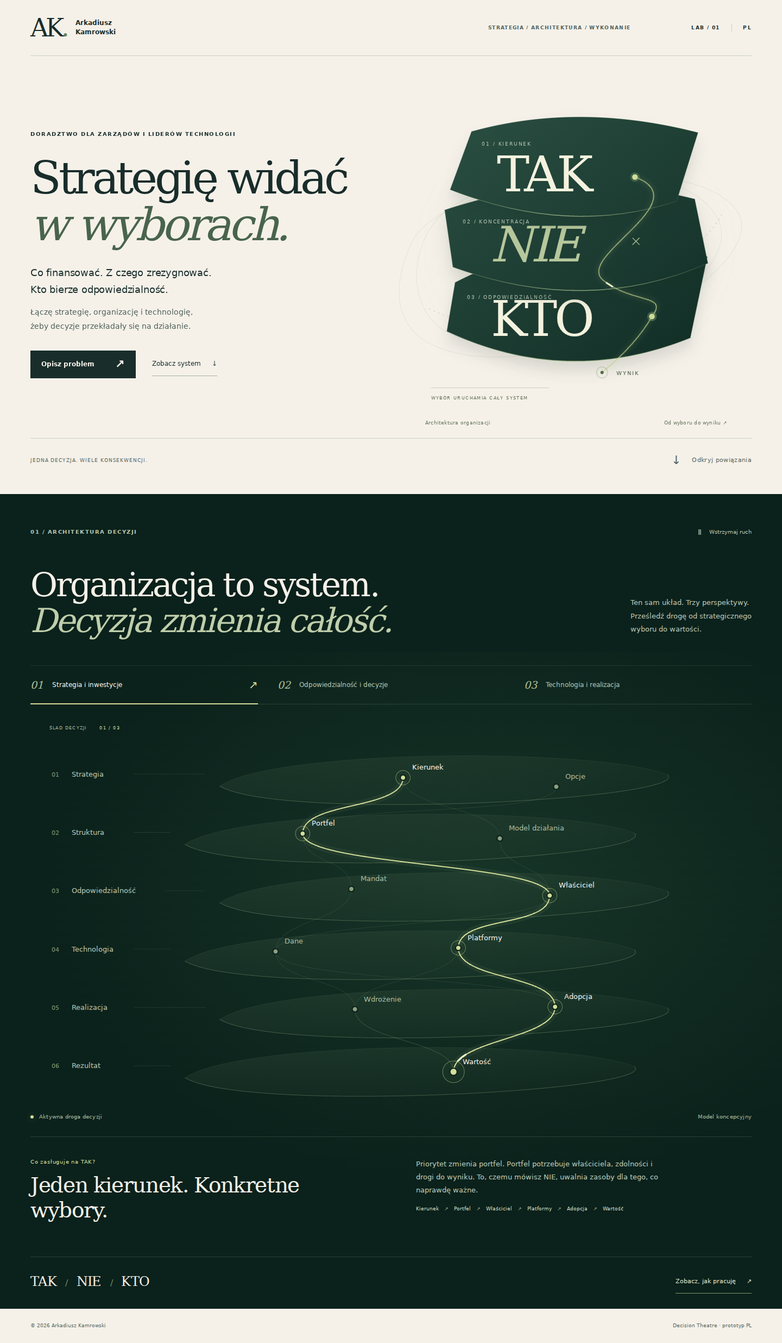
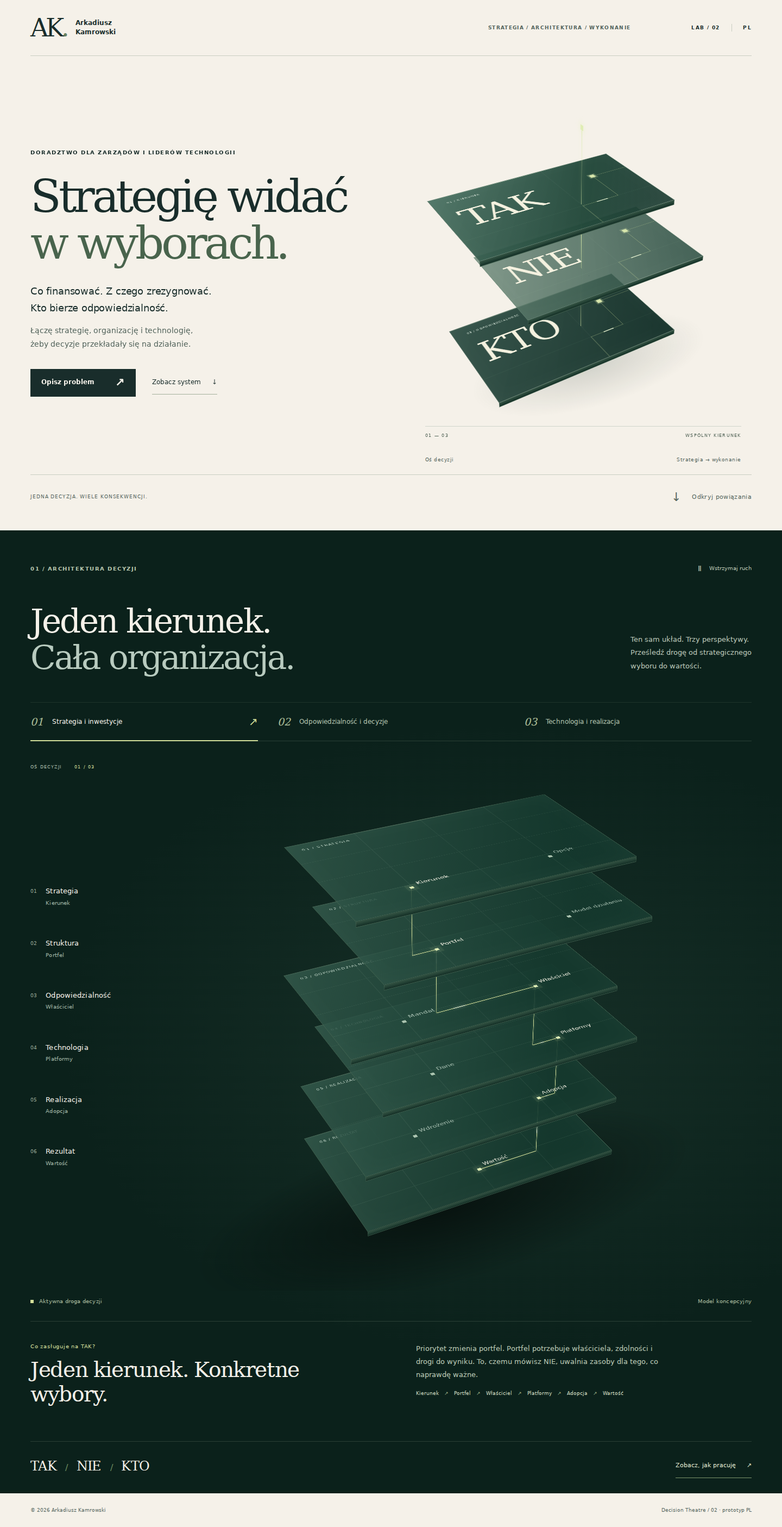
feat(lab): reframe Decision Theatre with rectilinear 3D solids

diff --git a/src/styles/decision-theatre.css b/src/styles/decision-theatre.css
@@ -3,11 +3,10 @@
 *{box-sizing:border-box}html{scroll-behavior:smooth;scroll-padding-top:1rem}body{margin:0;background:var(--dt-paper);color:var(--dt-ink);font:16px/1.6 var(--dt-sans);-webkit-font-smoothing:antialiased}h1,h2,h3,p,figure{margin:0}a{color:inherit;text-decoration:none}button{font:inherit}button,a{-webkit-tap-highlight-color:transparent}button{cursor:pointer}button:disabled{cursor:default}button[hidden],[hidden]{display:none!important}::selection{background:var(--dt-accent);color:var(--dt-night)}:focus-visible{outline:2px solid #527343;outline-offset:6px}main:focus{outline:none}.dt-system :focus-visible{outline-color:var(--dt-accent)}.dt-shell{width:min(1360px,calc(100% - 112px));margin-inline:auto}.dt-skip{position:fixed;z-index:10;left:1rem;top:1rem;background:var(--dt-ink);color:white;padding:1rem;transform:translateY(-200%)}.dt-skip:focus{transform:none}
 .dt-header{display:flex;align-items:center;justify-content:space-between;gap:2rem;min-height:103px;border-bottom:1px solid var(--dt-line)}.dt-brand{display:flex;align-items:center;gap:16px;font-size:12px;font-weight:600;line-height:1.4}.dt-monogram{font:46px/1 var(--dt-serif);letter-spacing:-5px}.dt-monogram span{color:#678060}.dt-edition,.dt-lab{font-size:9px;font-weight:550;letter-spacing:.15em}.dt-edition{margin-left:auto;margin-right:5rem;color:var(--dt-muted)}.dt-lab{display:flex;gap:22px}.dt-lab span{border-left:1px solid var(--dt-line);padding-left:20px}
 .dt-hero{display:grid;grid-template-columns:1.03fr 1fr;align-items:center;column-gap:1rem;padding-top:40px;position:relative}.dt-hero-copy{z-index:1;padding:45px 0 40px}.dt-kicker{font-size:10px;letter-spacing:.15em;font-weight:600;line-height:1.7}.dt-hero h1{font:400 clamp(54px,5.75vw,87px)/1.04 var(--dt-serif);letter-spacing:-.065em;margin-top:30px}.dt-hero h1 em{font-weight:400;color:#49644d}.dt-lead{font-size:18px;line-height:1.7;letter-spacing:-.01em;margin-top:30px}.dt-intro{font-size:14px;line-height:1.8;color:var(--dt-muted);margin-top:14px;max-width:40ch}.dt-actions{display:flex;align-items:center;gap:30px;margin-top:32px}.dt-cta{display:inline-flex;align-items:center;gap:38px;background:var(--dt-ink);color:var(--dt-paper);font-size:12px;font-weight:550;padding:15px 20px;min-height:50px;transition:background .25s,transform .25s}.dt-cta:hover{background:#345d4b;transform:translateY(-2px)}.dt-cta span{font-size:21px;line-height:1}.dt-text-link{display:inline-flex;align-items:center;justify-content:space-between;gap:20px;font-size:12px;padding:10px 0;border-bottom:1px solid #a5b09d;min-height:44px}.dt-text-link span{transition:transform .3s}.dt-text-link:hover span{transform:translate(2px,-2px)}.dt-hero-bottom{grid-column:1/-1;display:flex;justify-content:space-between;align-items:center;border-top:1px solid var(--dt-line);margin-top:20px;margin-bottom:40px;padding-top:18px;font-size:9px;letter-spacing:.1em;color:var(--dt-muted)}.dt-hero-bottom a{display:flex;gap:20px;align-items:center;min-height:44px;letter-spacing:.03em;font-size:11px}.dt-hero-bottom a>span{font-size:22px}
-.dt-field{min-width:0}.dt-hero-field{position:relative;isolation:isolate;align-self:center}.dt-hero-field:before{content:'';position:absolute;z-index:-1;inset:12% 6% 15%;background:radial-gradient(ellipse,#9ea88935,transparent 70%);filter:blur(20px)}.dt-hero-field svg{display:block;width:100%;height:auto;overflow:visible}.dt-orbit{stroke:#9cae923f;stroke-width:.8}.dt-orbit-short{stroke:#748d6577;stroke-dasharray:2 7}.dt-plane{fill:url(#dt-hero-surface);stroke:#75936b;stroke-opacity:.25;stroke-width:1}.dt-plane-edge{stroke:url(#dt-hero-edge);stroke-width:1.5}.dt-leaf{filter:drop-shadow(0 18px 12px #1629201f);transform-origin:50% 50%;transition:transform 1.2s var(--dt-ease)}.dt-hero-field:hover .dt-leaf-front{transform:translateY(-5px)}.dt-hero-field:hover .dt-leaf-back{transform:translateY(5px)}.dt-hero-number{fill:#b4c4af;font:9px var(--dt-sans);letter-spacing:1.8px}.dt-hero-word{fill:#f4f2df;font:89px var(--dt-serif);letter-spacing:-5px}.dt-word-no{fill:#b6c79c;font-style:italic}.dt-terminal{fill:var(--dt-accent);stroke:#3f6049;stroke-width:7;paint-order:stroke}.dt-stop{stroke:#adc195;stroke-width:1.3;transform:rotate(45deg);transform-box:fill-box;transform-origin:center}.dt-hero-trail-glow{stroke:#d3df9a;stroke-width:12;opacity:.06;filter:blur(3px)}.dt-hero-trail{stroke:#c1d18c;stroke-width:1.5;stroke-opacity:.9;stroke-dasharray:1;animation:dt-draw 2.4s var(--dt-ease) both}.dt-hero-signal{stroke:#f5ffd1;stroke-width:3;stroke-linecap:round;stroke-dasharray:.025 .975;animation:dt-flow 7s linear infinite}.dt-outcome-ring{stroke:#6b8658;stroke-width:.8}.dt-outcome-dot{fill:#4f6c43}.dt-outcome-label{fill:#465a41;font:10px var(--dt-sans);letter-spacing:2px}.dt-hairline{stroke:#9daa9177}.dt-hero-note{fill:#617054;font:8px var(--dt-sans);letter-spacing:1.4px}.dt-field-caption{display:flex;justify-content:space-between;gap:12px;color:#64735c;font-size:9px;padding-inline:7%;margin-top:-18px;letter-spacing:.025em}
 .dt-system{position:relative;isolation:isolate;background:var(--dt-night);color:var(--dt-paper);padding:48px 0 0;overflow:hidden}.dt-system:before{content:'';position:absolute;inset:290px 0 170px;z-index:-1;background:radial-gradient(ellipse at 62% 42%,#29523b65,transparent 65%);pointer-events:none}.dt-section-meta{display:flex;justify-content:space-between;align-items:center;gap:15px;min-height:44px}.dt-section-meta .dt-kicker{color:#b7c6ae}.dt-motion{display:flex;align-items:center;gap:12px;padding:10px 0 10px 12px;border:0;background:none;color:#bcc6b4;font-size:10px;min-height:44px}.dt-pause-icon{font-size:14px;letter-spacing:2px}.dt-system-heading{display:flex;justify-content:space-between;align-items:flex-end;gap:3rem;margin-top:42px;margin-bottom:48px}.dt-system h2{font:400 clamp(36px,4.25vw,64px)/1.09 var(--dt-serif);letter-spacing:-.047em}.dt-system h2 em{font-weight:400;color:#bfceab}.dt-system-heading>p{font-size:13px;color:#bac6b8;line-height:1.9;padding-bottom:5px;max-width:30ch}.dt-modes{display:grid;grid-template-columns:repeat(3,minmax(0,1fr));border-top:1px solid #4b61514d;border-bottom:1px solid #4b61517a;gap:36px}.dt-modes button{position:relative;display:flex;align-items:center;gap:16px;text-align:left;border:0;background:transparent;color:#b0c1ad;padding:20px 0;min-height:67px;font-size:12px;line-height:1.5;transition:color .25s}.dt-modes button:after{content:'';position:absolute;bottom:-1px;left:0;width:100%;height:2px;background:var(--dt-accent);transform:scaleX(0);transform-origin:left;transition:transform .55s var(--dt-ease)}.dt-modes button[aria-pressed=true]{color:var(--dt-paper)}.dt-modes button[aria-pressed=true]:after{transform:scaleX(1)}.dt-modes button:hover{color:var(--dt-accent)}.dt-mode-number{font:italic 19px var(--dt-serif);color:#aec09b}.dt-mode-arrow{margin-left:auto;opacity:0;font-size:20px;transform:translate(-5px,5px);transition:opacity .3s,transform .5s var(--dt-ease)}[aria-pressed=true] .dt-mode-arrow{opacity:1;transform:none;color:var(--dt-accent)}
-.dt-system-stage{position:relative;margin-top:28px}.dt-stage-note{position:absolute;top:10px;left:35px;display:flex;gap:24px;font-size:8px;letter-spacing:.15em;color:#a6bba2;z-index:1}.dt-stage-note span:last-child{color:#d3df9a}.dt-map{display:block;width:100%;height:auto;overflow:visible}.dt-map-desktop{padding-top:36px}.dt-map-mobile{display:none}.dt-map-depth{transform-origin:60% 50%;transition:transform 1.2s var(--dt-ease)}[data-mode="1"] .dt-map-depth{transform:translateX(-13px) rotate(-.8deg)}[data-mode="2"] .dt-map-depth{transform:translateX(8px) rotate(.7deg)}.dt-contour{stroke:#b3c796;stroke-opacity:.08;stroke-width:.8}.dt-contour-front{stroke:#b3c796;stroke-opacity:.25;stroke-width:.9}.dt-stratum{transition:opacity .7s}.dt-layer-name{fill:#b8c6b0;font:12px var(--dt-sans)}.dt-layer-index{fill:#829b7b;font:10px var(--dt-sans)}.dt-layer-rule{stroke:#566e514f;stroke-width:.7}.dt-background-links path{stroke:#a3c386;stroke-opacity:.14;stroke-width:.8}.dt-route{opacity:0;transition:opacity .7s var(--dt-ease)}[data-mode="0"] [data-route="0"],[data-mode="1"] [data-route="1"],[data-mode="2"] [data-route="2"]{opacity:1}.dt-route-glow{stroke:var(--dt-accent);stroke-width:12;opacity:.055}.dt-route-line{stroke:var(--dt-accent);stroke-width:1.8;stroke-dasharray:1;stroke-dashoffset:1;transition:stroke-dashoffset 1.2s var(--dt-ease)}[data-mode="0"] [data-route="0"] .dt-route-line,[data-mode="1"] [data-route="1"] .dt-route-line,[data-mode="2"] [data-route="2"] .dt-route-line{stroke-dashoffset:0}.dt-route-signal{stroke:#f1ffca;stroke-width:3;stroke-linecap:round;stroke-dasharray:.014 .986;animation:dt-flow 8s linear infinite}.dt-node-core{fill:#8ca080;stroke:var(--dt-night);stroke-width:4;paint-order:stroke;transition:fill .6s}.dt-node-halo{stroke:#c2d591;stroke-width:.7;opacity:0;fill:#b8d08006;transition:opacity .6s}.dt-node text{fill:#a9baa0;font:12px var(--dt-sans);transition:fill .6s}.dt-node.is-active text{fill:#f5f1e9}.dt-node.is-active .dt-node-core{fill:var(--dt-accent)}.dt-node.is-active .dt-node-halo{opacity:.65}.dt-stage-legend{display:flex;justify-content:space-between;gap:1rem;padding:12px 0 28px;border-bottom:1px solid #4b61517a;color:#aabc9f;font-size:10px;letter-spacing:.02em}.dt-stage-legend>span:first-child{display:flex;align-items:center;gap:10px}.dt-stage-legend i{width:6px;height:6px;border-radius:50%;background:var(--dt-accent);box-shadow:0 0 12px #d3df9a55}.dt-stories{padding:38px 0 46px;min-height:220px}.dt-story{display:grid;grid-template-columns:1fr 1fr;gap:7%;animation:dt-story-in .65s var(--dt-ease)}.dt-story-question{color:var(--dt-accent);font-size:10px;letter-spacing:.08em;margin-bottom:12px}.dt-story h3{font:400 clamp(26px,2.7vw,39px)/1.18 var(--dt-serif);letter-spacing:-.035em;max-width:23ch}.dt-story-body{font-size:13px;line-height:1.85;color:#bccab6;max-width:56ch}.dt-trace{display:flex;flex-wrap:wrap;gap:5px 0;list-style:none;padding:0;margin:15px 0 0;color:#d3dfc4;font-size:9px}.dt-trace li:not(:last-child):after{content:'↗';color:#9fb287;margin:0 10px}.dt-system-bottom{display:flex;justify-content:space-between;align-items:center;gap:2rem;border-top:1px solid #4b61517a;padding:23px 0 28px}.dt-system-bottom p{font:24px var(--dt-serif);letter-spacing:-.03em}.dt-system-bottom p span{color:#749365;font:16px var(--dt-serif);margin:0 9px}.dt-system-bottom .dt-text-link{color:#e4ecd5;border-color:#7f976e;font-size:11px}.dt-footer{display:flex;justify-content:space-between;gap:1rem;padding-block:24px;font-size:9px;color:var(--dt-muted)}.dt-nojs{font-size:13px;margin-bottom:20px}.dt-system details{margin:15px 0;font-size:14px}.dt-system summary{cursor:pointer;min-height:44px}
+.dt-stage-legend{display:flex;justify-content:space-between;gap:1rem;padding:12px 0 28px;border-bottom:1px solid #4b61517a;color:#aabc9f;font-size:10px;letter-spacing:.02em}.dt-stage-legend>span:first-child{display:flex;align-items:center;gap:10px}.dt-stage-legend i{width:6px;height:6px;border-radius:50%;background:var(--dt-accent);box-shadow:0 0 12px #d3df9a55}.dt-stories{padding:38px 0 46px;min-height:220px}.dt-story{display:grid;grid-template-columns:1fr 1fr;gap:7%;animation:dt-story-in .65s var(--dt-ease)}.dt-story-question{color:var(--dt-accent);font-size:10px;letter-spacing:.08em;margin-bottom:12px}.dt-story h3{font:400 clamp(26px,2.7vw,39px)/1.18 var(--dt-serif);letter-spacing:-.035em;max-width:23ch}.dt-story-body{font-size:13px;line-height:1.85;color:#bccab6;max-width:56ch}.dt-trace{display:flex;flex-wrap:wrap;gap:5px 0;list-style:none;padding:0;margin:15px 0 0;color:#d3dfc4;font-size:9px}.dt-trace li:not(:last-child):after{content:'↗';color:#9fb287;margin:0 10px}.dt-system-bottom{display:flex;justify-content:space-between;align-items:center;gap:2rem;border-top:1px solid #4b61517a;padding:23px 0 28px}.dt-system-bottom p{font:24px var(--dt-serif);letter-spacing:-.03em}.dt-system-bottom p span{color:#749365;font:16px var(--dt-serif);margin:0 9px}.dt-system-bottom .dt-text-link{color:#e4ecd5;border-color:#7f976e;font-size:11px}.dt-footer{display:flex;justify-content:space-between;gap:1rem;padding-block:24px;font-size:9px;color:var(--dt-muted)}.dt-nojs{font-size:13px;margin-bottom:20px}.dt-system details{margin:15px 0;font-size:14px}.dt-system summary{cursor:pointer;min-height:44px}
 @keyframes dt-draw{from{stroke-dashoffset:1}to{stroke-dashoffset:0}}@keyframes dt-flow{from{stroke-dashoffset:1.03}to{stroke-dashoffset:.03}}@keyframes dt-enter{from{transform:translateY(18px)}to{transform:none}}@keyframes dt-depth{from{opacity:0;transform:translateY(18px) scale(.96)}to{opacity:1;transform:none}}@keyframes dt-story-in{from{transform:translateY(7px)}to{transform:none}}@keyframes dt-breathe{0%,100%{opacity:.3}50%{opacity:.75}}
-@media(prefers-reduced-motion:no-preference){.dt-enter{animation:dt-enter 1s var(--dt-ease) both}.dt-hero h1{animation-delay:.1s}.dt-lead{animation-delay:.2s}.dt-intro{animation-delay:.3s}.dt-actions{animation-delay:.4s}.dt-leaf{animation:dt-depth 1.8s var(--dt-ease) backwards}.dt-leaf-mid{animation-delay:.12s}.dt-leaf-front{animation-delay:.24s}.dt-outcome-ring{animation:dt-breathe 5s ease-in-out infinite}.dt-system.dt-seen .dt-contour-front{animation:dt-enter 1.5s var(--dt-ease) both}}
+@media(prefers-reduced-motion:no-preference){.dt-enter{animation:dt-enter 1s var(--dt-ease) both}.dt-hero h1{animation-delay:.1s}.dt-lead{animation-delay:.2s}.dt-intro{animation-delay:.3s}.dt-actions{animation-delay:.4s}}
 [data-motion="paused"] *,[data-background="true"] *,[data-scene][data-visible="false"] *{animation-play-state:paused!important}
 [data-motion="paused"] .dt-map-depth{transition:none}
 .dt-system:not(.dt-seen) .dt-story{animation:none}
@@ -16,3 +15,74 @@
 @media(max-width:760px){.dt-shell{width:calc(100% - 40px)}.dt-header{min-height:82px}.dt-edition{display:none}.dt-brand{font-size:10px;gap:12px}.dt-monogram{font-size:39px}.dt-lab{font-size:8px;gap:14px}.dt-lab span{padding-left:14px}.dt-hero{grid-template-columns:1fr;padding-top:0}.dt-hero-copy{padding:45px 0 12px}.dt-hero h1{font-size:clamp(46px,10.5vw,74px);margin-top:24px;letter-spacing:-.055em}.dt-hero .dt-kicker{font-size:8px;letter-spacing:.12em;max-width:43ch}.dt-lead{font-size:16px;margin-top:23px}.dt-intro{font-size:13px;margin-top:12px}.dt-actions{margin-top:26px;gap:25px}.dt-cta{padding:13px 17px;gap:32px}.dt-hero-field{width:min(100%,460px);margin:7px auto 12px}.dt-field-caption{font-size:8px;margin-top:-20px;padding-inline:5%}.dt-hero-bottom{margin-top:21px;margin-bottom:24px;padding-top:8px;font-size:7px;letter-spacing:.07em}.dt-hero-bottom a{font-size:9px;gap:10px}.dt-system{padding-top:30px}.dt-section-meta .dt-kicker{font-size:8px}.dt-motion{font-size:9px;gap:8px}.dt-system-heading{display:block;margin-top:26px;margin-bottom:28px}.dt-system h2{font-size:clamp(33px,7.4vw,52px);letter-spacing:-.05em}.dt-system-heading>p{font-size:12px;margin-top:21px;max-width:34ch}.dt-system-heading>p br{display:none}.dt-modes{display:flex;flex-direction:column;gap:0;border-bottom:0}.dt-modes button{font-size:12px;gap:18px;min-height:54px;padding:12px 0;border-bottom:1px solid #4b61517a}.dt-mode-number{font-size:18px}.dt-mode-arrow{font-size:19px}.dt-modes button:after{width:2px;height:20px;top:calc(50% - 10px);left:-10px;transform:scaleY(0)}.dt-modes button[aria-pressed=true]:after{transform:scaleY(1)}.dt-system-stage{margin-top:27px}.dt-map-desktop{display:none}.dt-map-mobile{display:block;padding-top:42px;max-width:480px;margin-inline:auto}.dt-map-depth{transform-origin:50% 50%}[data-mode="1"] .dt-map-depth,[data-mode="2"] .dt-map-depth{transform:none}.dt-stage-note{left:0;top:0;font-size:8px}.dt-layer-name{font-size:10px}.dt-layer-index{font-size:8px}.dt-node text{font-size:12px}.dt-node-halo{stroke-width:1}.dt-route-line{stroke-width:1.6}.dt-stage-legend{font-size:9px;padding-top:13px;padding-bottom:24px}.dt-stories{padding:28px 0 32px;min-height:280px}.dt-story{display:block}.dt-story h3{font-size:30px;max-width:22ch}.dt-story-question{font-size:9px;margin-bottom:10px}.dt-story-body{font-size:12px;margin-top:18px;max-width:50ch}.dt-trace{font-size:9px;line-height:1.9;margin-top:15px}.dt-trace li:not(:last-child):after{margin-inline:8px}.dt-system-bottom{padding:20px 0 25px;gap:20px}.dt-system-bottom p{font-size:21px}.dt-system-bottom p span{margin-inline:5px}.dt-system-bottom .dt-text-link{font-size:10px;gap:12px}.dt-footer{font-size:8px;padding-block:20px;flex-wrap:wrap}}
 @media(max-width:360px){.dt-shell{width:calc(100% - 32px)}.dt-hero h1{font-size:44px}.dt-desktop-break{display:none}.dt-actions{gap:16px}.dt-cta{gap:20px}.dt-text-link{font-size:11px;gap:10px}.dt-system h2{font-size:30px}.dt-story h3{font-size:27px}.dt-system-bottom{align-items:flex-start;flex-direction:column;gap:10px}.dt-field-caption{font-size:7px}}
 @media(prefers-reduced-motion:reduce){html{scroll-behavior:auto}*,*:before,*:after{animation:none!important;transition:none!important}.dt-flow{display:none}.dt-leaf{filter:none}.dt-hero-field:hover .dt-leaf{transform:none}}
+
+/* 02 / Oś decyzji. Rectangular solids in a real CSS perspective scene. */
+.dt-hero h1 em,.dt-system h2 em{font-style:normal}.dt-system h2 em{color:#b8cbbf}
+.dt-field{min-width:0}.dt-hero-field{position:relative;align-self:center;width:100%}
+.dt-model{position:relative;container-type:inline-size;perspective:1300px;perspective-origin:50% 42%;isolation:isolate;overflow:clip}
+.dt-model-hero{aspect-ratio:1/1.08;--thickness:1.5cqw}
+.dt-ground{position:absolute;left:19%;right:12%;height:23%;bottom:13%;background:radial-gradient(ellipse,#0d251e28,transparent 70%);transform:rotate(-15deg);pointer-events:none}
+.dt-orientation{position:absolute;inset:0;transform-style:preserve-3d;transition:transform 1.6s var(--dt-ease)}
+.dt-world{position:absolute;inset:0;transform-style:preserve-3d;transform:translateY(10cqw) rotateX(57deg) rotateZ(-32deg)}
+.dt-slab-placement{position:absolute;left:0;top:0;transform-style:preserve-3d;transform:translate3d(var(--x),var(--y),var(--z))}
+.dt-solid{position:relative;width:58cqw;height:34cqw;transform-style:preserve-3d}
+.dt-surface{position:absolute;inset:0;background:linear-gradient(125deg,#426b5ce8,#204638f5 65%,#19382fe8);border:1px solid #a2bba667;box-shadow:inset 0 0 5cqw #9ebfa40b;transform-style:preserve-3d}
+.dt-surface:after{content:'';position:absolute;left:0;right:0;top:0;height:1px;background:linear-gradient(90deg,#d5e2c52b,#e0efcbb3,#d5e2c500)}
+.dt-face{position:absolute;background:#16382e;border:1px solid #718f784d;backface-visibility:hidden}
+.dt-face-front{left:0;top:100%;width:100%;height:var(--thickness);transform-origin:top;transform:rotateX(-90deg);background:linear-gradient(#315141,#142f26)}
+.dt-face-side{left:100%;top:0;width:var(--thickness);height:100%;transform-origin:left;transform:rotateY(90deg);background:#102c23}
+.dt-material-index{position:absolute;left:4cqw;top:3cqw;font:500 1.15cqw/1.2 var(--dt-sans);letter-spacing:.15em;color:#c9d9cd;white-space:nowrap}
+.dt-solid-word{position:absolute;left:4cqw;top:8cqw;color:#f4f1df;font:400 12cqw/1 var(--dt-serif);letter-spacing:-.06em}
+.dt-hero-slab-1 .dt-surface{background:linear-gradient(120deg,#668474cc,#294c40de)}
+.dt-hero-slab-0 .dt-surface{background:linear-gradient(125deg,#2d4d43f2,#132f28f7)}
+.dt-surface-drawing{position:absolute;inset:0;width:100%;height:100%;pointer-events:none}
+.dt-etched{stroke:#c7e2c4;stroke-width:1;opacity:.1}.dt-engraving{stroke:#d3df9a;stroke-width:1.1;opacity:.55}
+.dt-port{fill:#d7e6ac;stroke:#d7e6ac;stroke-opacity:.25;stroke-width:10;paint-order:stroke}
+.dt-surface-flow{stroke:#f5ffdc;stroke-width:3;stroke-dasharray:.075 .925;animation:dt-flow 8s linear infinite}
+.dt-spine{position:absolute;top:0;left:0;width:83cqw;height:.18cqw;background:#d7e8a8;transform-origin:0 50%;transform:translate3d(54cqw,50cqw,-31cqw) rotateY(-90deg);box-shadow:0 0 1.7cqw #ddf8a277}
+.dt-spine:before,.dt-spine:after{content:'';position:absolute;top:-.65cqw;width:1.4cqw;height:1.4cqw;background:#e0edb5;box-shadow:0 0 2cqw #daee9d88}.dt-spine:after{right:0}
+.dt-object-meta{position:absolute;left:7%;right:3%;bottom:5%;display:flex;justify-content:space-between;border-top:1px solid #b8c4b999;padding-top:12px;font:500 8px var(--dt-sans);letter-spacing:.16em;color:#506255}
+.dt-field-caption{display:flex;justify-content:space-between;gap:12px;font-size:9px;letter-spacing:.05em;color:#53645c;padding:0 3% 0 7%;margin-top:-2px}
+.dt-hero-field:hover .dt-orientation{transform:rotateY(-6deg)}
+.dt-system:before{background:radial-gradient(ellipse at 64% 47%,#36574844,transparent 62%);inset:350px 0 180px}
+.dt-system-stage{position:relative;margin-top:28px}.dt-stage-note{display:flex;gap:24px;font-size:8px;letter-spacing:.15em;color:#adbfad;padding:14px 0 0}.dt-stage-note span:last-child{color:var(--dt-accent)}
+.dt-desktop-architecture{display:grid;grid-template-columns:190px minmax(0,1fr);align-items:center}
+.dt-model-system{aspect-ratio:1/.84;--thickness:1.1cqw;margin:0;perspective:2400px}
+.dt-system-world{transform:scale3d(.78,.78,.78) translateY(-6cqw) rotateX(59deg) rotateZ(-27deg);transition:transform 1.7s var(--dt-ease)}
+[data-mode="1"] .dt-system-world{transform:scale3d(.78,.78,.78) translateY(-6cqw) rotateX(55deg) rotateZ(-34deg)}
+[data-mode="2"] .dt-system-world{transform:scale3d(.78,.78,.78) translateY(-6cqw) rotateX(62deg) rotateZ(-22deg)}
+.dt-system-slab{--x:var(--x0);--y:var(--y0);--z:var(--z0);transition:transform 1.6s var(--dt-ease)}
+[data-mode="1"] .dt-system-slab{--x:var(--x1);--y:var(--y1);--z:var(--z1)}
+[data-mode="2"] .dt-system-slab{--x:var(--x2);--y:var(--y2);--z:var(--z2)}
+.dt-system-slab .dt-surface{background:linear-gradient(120deg,#335a4ccd,#15392eea 80%);border-color:#a3c19a4d}
+.dt-system-slab .dt-material-index{font-size:1.05cqw;left:2.5cqw;top:2cqw;color:#b7cdbf;letter-spacing:.11em}
+.dt-model-system .dt-ground{background:radial-gradient(ellipse,#0008,transparent 70%);bottom:1%;height:30%;left:8%;right:8%}
+.dt-layer-directory{list-style:none;margin:0;padding:0 0 15px;position:relative;z-index:1;display:flex;flex-direction:column;justify-content:space-between;height:clamp(340px,37vw,540px);gap:0}
+.dt-layer-directory li{display:flex;gap:16px;font-size:13px;line-height:1.5;letter-spacing:.01em}.dt-layer-directory li>span{font-size:9px;color:#9aaa98;padding-top:4px}.dt-layer-directory small{display:block;font-size:10px;color:#a3b8a8;margin-top:4px;min-height:15px;max-width:19ch}
+[data-layer-reading]{display:none}[data-mode="0"] [data-layer-reading="0"],[data-mode="1"] [data-layer-reading="1"],[data-mode="2"] [data-layer-reading="2"]{display:block}
+.dt-space-node{position:absolute;transform:translateZ(.3cqw);color:#a6beb0}
+.dt-space-node i{position:absolute;width:.8cqw;height:.8cqw;left:-.4cqw;top:-.4cqw;background:#a9c2b0;border:1px solid #cce3c599;transition:background .7s,box-shadow .7s}
+.dt-space-node span{position:absolute;left:1.5cqw;top:-2.1cqw;font:400 1.5cqw var(--dt-sans);white-space:nowrap}
+.dt-space-node.is-active{color:#f6f3e5}.dt-space-node.is-active i{background:#dfedb2;box-shadow:0 0 0 .7cqw #d3df9a15,0 0 1.7cqw #def7b04d}
+.dt-spatial-route{display:contents}.dt-link-segment{position:absolute;left:0;top:0;height:.18cqw;transform-origin:0 50%;opacity:0;transition:opacity .35s;pointer-events:none}
+.dt-wire{position:absolute;inset:0;background:#d3df9a;box-shadow:0 0 .9cqw #d3df9a55;transform:scaleX(0);transform-origin:left;transition:transform 1s var(--dt-ease)}
+.dt-link-segment b{position:absolute;width:12%;height:100%;background:#f5ffdc;box-shadow:0 0 .8cqw #fff9;animation:dt-segment-flow 5s linear infinite;animation-delay:calc(var(--segment)*-.37s)}
+[data-mode="0"] [data-route="0"] .dt-link-segment,[data-mode="1"] [data-route="1"] .dt-link-segment,[data-mode="2"] [data-route="2"] .dt-link-segment{opacity:1;transition-delay:.3s}
+[data-mode="0"] [data-route="0"] .dt-wire,[data-mode="1"] [data-route="1"] .dt-wire,[data-mode="2"] [data-route="2"] .dt-wire{transform:scaleX(1)}
+.dt-map-mobile{display:none;width:100%;height:auto;overflow:visible}
+.dt-mobile-surface{fill:url(#dt-mobile-material);stroke:#b8cba75c;stroke-width:.7}.dt-mobile-edge{fill:#17382c;stroke:#b8cba740;stroke-width:.7}
+.dt-mobile-slab{transition:transform 1.2s var(--dt-ease)}[data-mode="1"] .dt-mobile-slab:nth-of-type(even){transform:translateX(-7px)}[data-mode="2"] .dt-mobile-slab:nth-of-type(odd){transform:translateX(5px)}
+.dt-layer-name{fill:#c2d0c4;font:11px var(--dt-sans)}.dt-layer-index{fill:#94af9d;font:9px var(--dt-sans)}
+.dt-route{opacity:0;transition:opacity .7s var(--dt-ease)}[data-mode="0"] [data-route="0"],[data-mode="1"] [data-route="1"],[data-mode="2"] [data-route="2"]{opacity:1}
+.dt-route-glow{stroke:#d3df9a;stroke-width:8;opacity:.05}.dt-route-line{stroke:#d3df9a;stroke-width:1.2;stroke-dasharray:1;stroke-dashoffset:1;transition:stroke-dashoffset 1.4s var(--dt-ease)}
+[data-mode="0"] [data-route="0"] .dt-route-line,[data-mode="1"] [data-route="1"] .dt-route-line,[data-mode="2"] [data-route="2"] .dt-route-line{stroke-dashoffset:0}
+.dt-route-signal{stroke:#f1ffca;stroke-width:2.5;stroke-dasharray:.025 .975;animation:dt-flow 7s linear infinite}.dt-node-core{fill:#9db49d;stroke:#15372c;stroke-width:3;paint-order:stroke}.dt-node-halo{stroke:#d3df9a;stroke-width:.5;opacity:0;transition:opacity .6s}.dt-node text{fill:#b5c8b8;font:11px var(--dt-sans)}.dt-node.is-active text{fill:#f5f1e9}.dt-node.is-active .dt-node-core{fill:#d3df9a}.dt-node.is-active .dt-node-halo{opacity:.8}
+.dt-stage-legend i{border-radius:0;box-shadow:none}
+@keyframes dt-register{0%,18%,100%{transform:translate3d(var(--x),var(--y),var(--z))}48%,65%{transform:translate3d(22cqw,30cqw,calc(var(--z)*.65))}}
+@keyframes dt-camera{0%,100%{transform:translateY(10cqw) rotateX(57deg) rotateZ(-32deg)}50%{transform:translateY(10cqw) rotateX(61deg) rotateZ(-28deg)}}
+@keyframes dt-segment-flow{0%,5%{left:0;opacity:0}15%{opacity:1}80%{opacity:1}95%,100%{left:88%;opacity:0}}
+@keyframes dt-material-in{from{transform:translateZ(-14cqw);opacity:0}to{transform:translateZ(0);opacity:1}}
+@media(prefers-reduced-motion:no-preference){.dt-hero-slab{animation:dt-register 17s var(--dt-ease) infinite;animation-delay:calc(var(--order)*.14s)}.dt-hero-world{animation:dt-camera 17s ease-in-out infinite}.dt-hero-slab .dt-solid{animation:dt-material-in 1.7s var(--dt-ease) backwards;animation-delay:calc(var(--order)*.18s)}.dt-system.dt-seen .dt-orientation{animation:dt-enter 1.4s var(--dt-ease) both}}
+@media(max-width:1100px){.dt-desktop-architecture{grid-template-columns:160px minmax(0,1fr)}.dt-layer-directory{gap:22px}.dt-layer-directory li{font-size:11px;gap:12px}.dt-layer-directory small{font-size:9px}.dt-model-system{margin-left:0}.dt-hero h1{font-size:clamp(46px,5.8vw,68px)}}
+@media(max-width:760px){.dt-hero-field{width:min(100%,480px);margin:8px auto 22px}.dt-model-hero{aspect-ratio:1/.98}.dt-world{transform:translateY(6cqw) rotateX(57deg) rotateZ(-32deg)}.dt-material-index{font-size:1.6cqw}.dt-solid-word{font-size:13cqw}.dt-object-meta{bottom:2%;font-size:7px;padding-top:9px}.dt-field-caption{margin-top:12px;font-size:8px}.dt-desktop-architecture{display:none}.dt-map-mobile{display:block;padding-top:40px;max-width:440px;margin:auto}.dt-stage-note{padding-top:0}.dt-system-stage{margin-top:28px}.dt-system h2{font-size:clamp(37px,8.3vw,58px)}.dt-hero h1{font-size:clamp(44px,10.5vw,74px)}.dt-node text{font-size:10px}.dt-layer-name{font-size:9.5px}.dt-layer-index{font-size:8px}.dt-model-hero{perspective:800px}}
+@media(prefers-reduced-motion:reduce){.dt-hero-field:hover .dt-orientation{transform:none}.dt-space-node.is-active i{box-shadow:0 0 0 .7cqw #d3df9a15}}

diff --git a/tests/decision-theatre.spec.ts b/tests/decision-theatre.spec.ts
@@ -11,6 +11,10 @@ test('Decision Theatre: perspectives, keyboard, pause and WCAG', async ({ page }
   for (const selector of ['.dt-kicker.dt-enter', '#dt-title', '.dt-lead', '.dt-intro']) {
     await expect(page.locator(selector)).toHaveCSS('opacity', '1');
   }
+  // Offscreen entrances must never strand the spatial model in a faded state.
+  for (const solid of await page.locator('.dt-system .dt-solid').all()) {
+    await expect(solid).toHaveCSS('opacity', '1');
+  }
   for (let i = 0; i < 3; i++) {
     if (i) await page.keyboard.press('ArrowRight');
     await expect(controls.nth(i)).toBeFocused();
@@ -34,7 +38,7 @@ test('Decision Theatre: reduced motion and 320px reflow', async ({ page }) => {
   await page.emulateMedia({ reducedMotion: 'reduce' });
   await page.setViewportSize({ width: 320, height: 800 });
   await page.goto('/lab/decision-theatre');
-  await expect(page.locator('h1')).toHaveText('Strategię widaćw wyborach.');
+  await expect(page.locator('h1')).toHaveText('Strategię widać w wyborach.');
   expect(await page.evaluate(() => document.documentElement.scrollWidth <= innerWidth)).toBe(true);
   expect(await page.locator('.dt-hero-signal').evaluate(el => getComputedStyle(el).display)).toBe('none');
   expect(await page.evaluate(() => document.getAnimations().length)).toBe(0);

diff --git a/docs/DECISION_THEATRE.md b/docs/DECISION_THEATRE.md
@@ -5,33 +5,36 @@ Base: `545d873` (main)
 Route: `/lab/decision-theatre`  
 Scope: two sections, PL-first. No merge, staging promotion or production deployment.
 
-## Creative direction
+## Creative direction — 02 / Oś decyzji
 
-**Ślad decyzji / The trace of a decision.** The earlier Enterprise Decision Graph
-made relationships legible but lacked a strong focal point. This prototype gives
-the brand's TAK / NIE / KTO signature dimensional presence, then follows a single
-decision through six organizational layers. The organization stays recognizable
-when its interpretation changes.
+The second direction follows the visual review: simple rectangular solids,
+precise depth, translucent pine surfaces and light that connects the layers.
+The organic ribbons and curved topology from the first version have been removed.
+The visual impact now comes from material, perspective, occlusion and motion.
 
-Warm ivory, pine and one pale signal color retain the current brand. Georgia and
-the system sans stack avoid new font requests. Curved fields suggest overlapping
-responsibilities, rather than buildings, server racks or a dashboard. The broad
-dark stage and editorial typography provide the main visual contrast.
+The hero presents TAK / NIE / KTO as three thin rectangular solids. Over a quiet
+17-second cycle they separate and register onto a shared decision axis. Real CSS
+3D transforms expose the front and side faces. Lighting stays consistent with
+the material; the camera changes angle only slightly.
+
+The dark System shows six organizational layers. Selecting a perspective moves
+the same planes, adjusts the camera and redraws a rectilinear route through the
+relevant decision points. A flat directory keeps layer names and selected nodes
+readable independently of perspective. The map is a conceptual organization,
+not a model of a building.
 
 ## Experience
 
-- Hero: thesis, short buyer-oriented explanation, direct **Opisz problem** CTA,
-  in-page **Zobacz system** link, layered signature and continuous signal.
-- System: three views of strategy/investment, ownership/decision rights, and
-  technology/execution. Selected nodes, route, explanation and ordered text trace
-  change together. Technology explicitly passes through deployment and adoption.
-- Mobile: dedicated portrait topology, vertical controls, native wrapping copy;
-  it does not scale down the desktop map.
-- Motion: staggered entrance, path drawing, sparse flow signal, restrained depth
-  transitions and hover. No automatic mode changes or scroll hijacking.
-- Accessibility: native pressed buttons, arrow/Home/End navigation, live
-  explanation, textual equivalent of each path, focus styles, motion pause,
-  reduced-motion support and readable no-JS details.
+- Hero: existing thesis and CTA logic, typographic hierarchy, three solids and
+  a single axis connecting direction, focus and responsibility.
+- System: strategy/investment, ownership/decision rights, technology/execution.
+  Planes, signal path, selected nodes, directory and explanation change together.
+- Mobile: 3D hero, dedicated SVG cross-section of straight rectangular prisms,
+  vertical controls and a concise text trace. No scaled-down desktop system.
+- Motion: staged entrance, 17-second alignment cycle, depth changes, path drawing,
+  controlled signals and a restrained hover response. No scroll hijacking.
+- Accessibility: keyboard navigation, visible focus, motion pause, reduced motion,
+  native pressed buttons, text equivalents and a readable no-JS fallback.
 
 ## Implementation boundaries
 
@@ -81,7 +84,7 @@ It is a review artifact, not a deployed production route.
 | Loading budget | PASS | Approximately 1.7 KiB lab JS, no new dependencies or font/image requests |
 | Prototype indexing | PASS | Noindex and sitemap exclusion |
 | Forms / analytics | PASS | No new forms or analytics; existing CTA routes preserved |
-| Cross-browser release validation | FIX before production | Chromium inspected locally; Firefox/WebKit matrix is included in CI |
+| Cross-browser matrix | CI gate | Chromium, Firefox, WebKit and mobile Chromium; see the current PR checks for the latest result |
 | Real-device motion / Core Web Vitals | FIX before production | Local functional checks are not field CWV or physical iPhone/Safari validation |
 | Deployment | PASS | Review branch only; no release or environment promotion |
 
@@ -93,12 +96,15 @@ It is a review artifact, not a deployed production route.
   in a faded frame. All text entrances now use translation at full opacity. This also prevents
   rapid keyboard navigation from freezing offscreen hero text at low contrast.
   CI includes an immediate-focus opacity regression check.
+- **P2 / spatial rendering:** clipped model corners and an offscreen material
+  entrance could obscure the model. The scene now fits its bounds and system
+  entrances preserve full material opacity. CI asserts this after immediate focus.
 - **P2 / explanatory clarity:** the technology route originally looked too close
   to the strategy route. It now includes both data/platforms and deployment/adoption.
 
 ### Next review decision
 
-Compare the standalone prototype with the existing home at desktop and mobile
+Compare the new rectilinear standalone prototype with the existing home at desktop and mobile
 sizes. Validate that TAK / NIE / KTO is understood within five seconds and that
 each selected path helps explain a real executive decision. If approved, tune
 the chosen visual language, complete EN, validate physical Safari/reduced motion,
